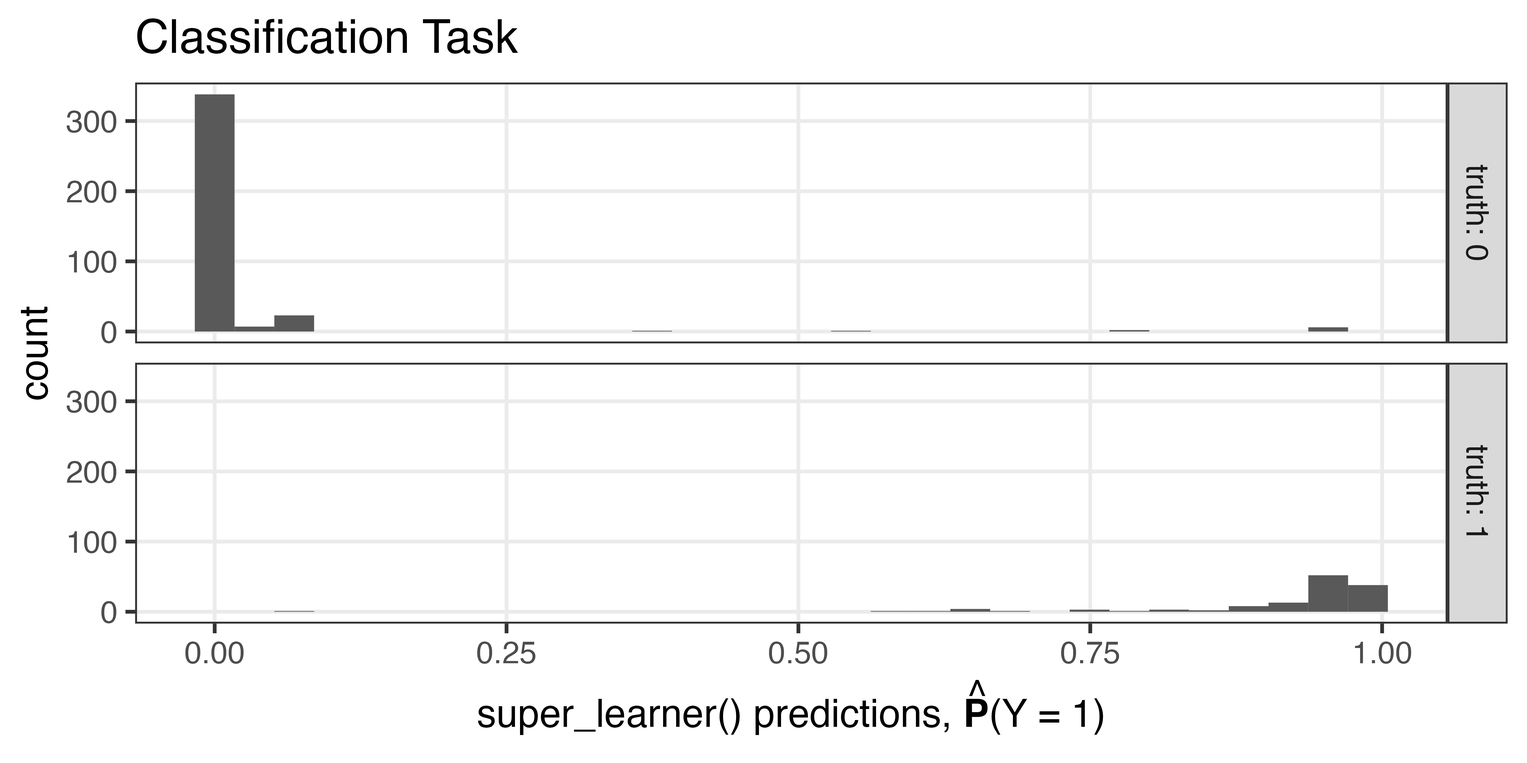
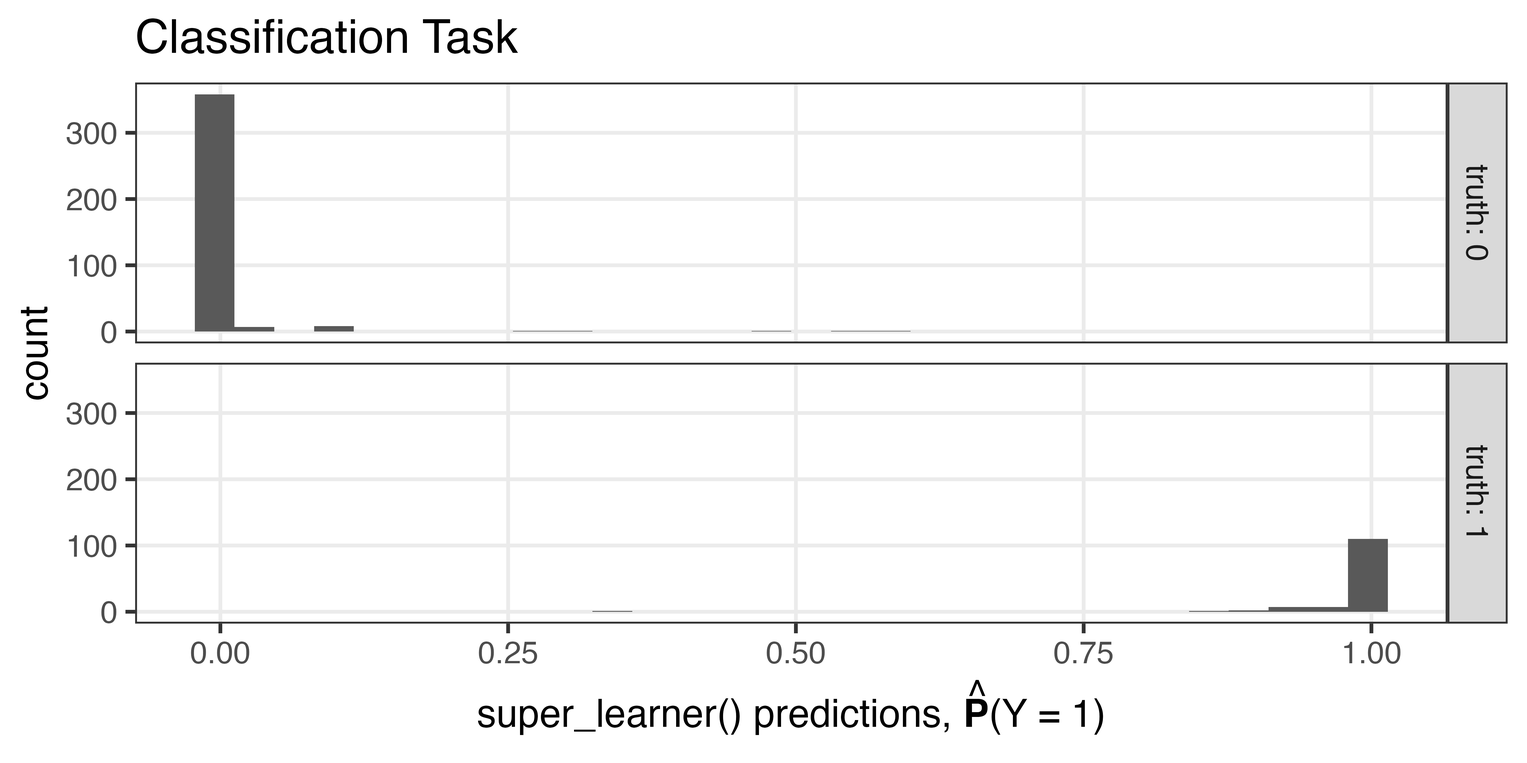
update multiclass prediction vignette to be more clear

diff --git a/docs/articles/Binary-and-Multiclass-Outcomes.html b/docs/articles/Binary-and-Multiclass-Outcomes.html
@@ -6,12 +6,11 @@
 <meta http-equiv="X-UA-Compatible" content="IE=edge">
 <meta name="viewport" content="width=device-width, initial-scale=1, shrink-to-fit=no">
 <title>Binary and Multiclass Outcomes • nadir</title>
-<!-- favicons --><link rel="icon" type="image/png" sizes="16x16" href="../favicon-16x16.png">
-<link rel="icon" type="image/png" sizes="32x32" href="../favicon-32x32.png">
-<link rel="apple-touch-icon" type="image/png" sizes="180x180" href="../apple-touch-icon.png">
-<link rel="apple-touch-icon" type="image/png" sizes="120x120" href="../apple-touch-icon-120x120.png">
-<link rel="apple-touch-icon" type="image/png" sizes="76x76" href="../apple-touch-icon-76x76.png">
-<link rel="apple-touch-icon" type="image/png" sizes="60x60" href="../apple-touch-icon-60x60.png">
+<!-- favicons --><link rel="icon" type="image/png" sizes="96x96" href="../favicon-96x96.png">
+<link rel="icon" type="”image/svg+xml”" href="../favicon.svg">
+<link rel="apple-touch-icon" sizes="180x180" href="../apple-touch-icon.png">
+<link rel="icon" sizes="any" href="../favicon.ico">
+<link rel="manifest" href="../site.webmanifest">
 <script src="../deps/jquery-3.6.0/jquery-3.6.0.min.js"></script><meta name="viewport" content="width=device-width, initial-scale=1, shrink-to-fit=no">
 <link href="../deps/bootstrap-5.3.1/bootstrap.min.css" rel="stylesheet">
 <script src="../deps/bootstrap-5.3.1/bootstrap.bundle.min.js"></script><link href="../deps/font-awesome-6.4.0/css/all.min.css" rel="stylesheet">
@@ -28,7 +27,7 @@
 
     <a class="navbar-brand me-2" href="../index.html">nadir</a>
 
-    <small class="nav-text text-muted me-auto" data-bs-toggle="tooltip" data-bs-placement="bottom" title="">0.0.001</small>
+    <small class="nav-text text-muted me-auto" data-bs-toggle="tooltip" data-bs-placement="bottom" title="">0.0.2</small>
 
 
     <button class="navbar-toggler" type="button" data-bs-toggle="collapse" data-bs-target="#navbar" aria-controls="navbar" aria-expanded="false" aria-label="Toggle navigation">
@@ -52,13 +51,16 @@
     <li><a class="dropdown-item" href="../articles/Doubly-Robust-Estimation.html">Doubly Robust Estimation</a></li>
     <li><a class="dropdown-item" href="../articles/Error-Handling.html">Error Handling</a></li>
     <li><a class="dropdown-item" href="../articles/FAQs.html">FAQs</a></li>
+    <li><a class="dropdown-item" href="../articles/Glmnets-and-Multipredictors.html">Glmnets and Multipredictors</a></li>
     <li><a class="dropdown-item" href="../articles/Guidance-for-Developers.html">Guidance for Developers</a></li>
     <li><a class="dropdown-item" href="../articles/Running-super_learner-in-Parallel.html">Running `super_learner()` in Parallel</a></li>
+    <li><a class="dropdown-item" href="../articles/Screeners.html">Screeners</a></li>
     <li><a class="dropdown-item" href="../articles/Survival.html">Survival Analysis via Pooled Logistic Regression</a></li>
     <li><a class="dropdown-item" href="../articles/Using-Weights.html">Using Observation Weights</a></li>
     <li><a class="dropdown-item" href="../articles/Visualizing-Performance.html">Visualizing Performance</a></li>
   </ul>
 </li>
+<li class="nav-item"><a class="nav-link" href="../news/index.html">Changelog</a></li>
       </ul>
 <ul class="navbar-nav">
 <li class="nav-item"><form class="form-inline" role="search">
@@ -88,9 +90,18 @@
     
 <div class="sourceCode" id="cb1"><pre class="downlit sourceCode r">
 <code class="sourceCode R"><span><span class="kw"><a href="https://rdrr.io/r/base/library.html" class="external-link">library</a></span><span class="op">(</span><span class="va"><a href="https://ctesta01.github.io/nadir/">nadir</a></span><span class="op">)</span></span>
-<span><span class="co">#&gt; Registered S3 method overwritten by 'future':</span></span>
-<span><span class="co">#&gt;   method               from      </span></span>
-<span><span class="co">#&gt;   all.equal.connection parallelly</span></span></code></pre></div>
+<span><span class="kw"><a href="https://rdrr.io/r/base/library.html" class="external-link">library</a></span><span class="op">(</span><span class="va"><a href="https://ggplot2.tidyverse.org" class="external-link">ggplot2</a></span><span class="op">)</span></span>
+<span><span class="co">#&gt; Warning: package 'ggplot2' was built under R version 4.5.2</span></span>
+<span><span class="kw"><a href="https://rdrr.io/r/base/library.html" class="external-link">library</a></span><span class="op">(</span><span class="va"><a href="https://dplyr.tidyverse.org" class="external-link">dplyr</a></span><span class="op">)</span></span>
+<span><span class="co">#&gt; </span></span>
+<span><span class="co">#&gt; Attaching package: 'dplyr'</span></span>
+<span><span class="co">#&gt; The following objects are masked from 'package:stats':</span></span>
+<span><span class="co">#&gt; </span></span>
+<span><span class="co">#&gt;     filter, lag</span></span>
+<span><span class="co">#&gt; The following objects are masked from 'package:base':</span></span>
+<span><span class="co">#&gt; </span></span>
+<span><span class="co">#&gt;     intersect, setdiff, setequal, union</span></span>
+<span><span class="kw"><a href="https://rdrr.io/r/base/library.html" class="external-link">library</a></span><span class="op">(</span><span class="va"><a href="https://tidyr.tidyverse.org" class="external-link">tidyr</a></span><span class="op">)</span></span></code></pre></div>
 <div class="section level2">
 <h2 id="binary-outcomes-">Binary Outcomes.<a class="anchor" aria-label="anchor" href="#binary-outcomes-"></a>
 </h2>
@@ -125,26 +136,27 @@ to <code><a href="../reference/super_learner.html">super_learner()</a></code> as
 <span>                             <span class="co"># for that learner</span></span>
 <span>    rf <span class="op">=</span> <span class="va">lnr_rf_binary</span>,  <span class="co"># random forest</span></span>
 <span>    lm <span class="op">=</span> <span class="va">lnr_lm</span><span class="op">)</span>, <span class="co"># linear probability model</span></span>
-<span>  outcome_type <span class="op">=</span> <span class="st">'binary'</span>,</span>
-<span>  verbose <span class="op">=</span> <span class="cn">TRUE</span></span>
+<span>  outcome_type <span class="op">=</span> <span class="st">'binary'</span></span>
 <span><span class="op">)</span></span>
 <span></span>
 <span><span class="co"># let's take a look at the learned weights</span></span>
 <span><span class="va">trained_binary_super_learner</span><span class="op">$</span><span class="va">learner_weights</span></span>
-<span><span class="co">#&gt;     logistic           rf           lm </span></span>
-<span><span class="co">#&gt; 1.000000e+00 2.691182e-16 4.748858e-20</span></span>
+<span><span class="co">#&gt;   logistic         rf         lm </span></span>
+<span><span class="co">#&gt; 0.05579758 0.92514573 0.01905669</span></span>
 <span></span>
 <span><span class="co"># what are the predictions? you can think of them as \hat{P}(Y = 1 | X).</span></span>
 <span><span class="co"># i.e., predictions of P(Y = 1) given X where Y and X are the left &amp; right hand</span></span>
 <span><span class="co"># side of your regression formula(s)</span></span>
-<span><span class="fu"><a href="https://rdrr.io/r/utils/head.html" class="external-link">head</a></span><span class="op">(</span><span class="va">trained_binary_super_learner</span><span class="op">$</span><span class="fu">sl_predict</span><span class="op">(</span><span class="va">data</span><span class="op">)</span><span class="op">)</span></span>
-<span><span class="co">#&gt;            1            2            3            4            5            6 </span></span>
-<span><span class="co">#&gt; 2.772297e-05 1.034418e-05 5.749397e-06 2.472188e-06 3.237557e-06 3.784687e-06</span></span>
+<span><span class="fu"><a href="https://rdrr.io/r/utils/head.html" class="external-link">head</a></span><span class="op">(</span><span class="va">trained_binary_super_learner</span><span class="op">$</span><span class="fu">predict</span><span class="op">(</span><span class="va">data</span><span class="op">)</span><span class="op">)</span></span>
+<span><span class="co">#&gt;             1             2             3             4             5 </span></span>
+<span><span class="co">#&gt; -0.0006585537 -0.0024558314 -0.0019335223 -0.0025505626 -0.0024837036 </span></span>
+<span><span class="co">#&gt;             6 </span></span>
+<span><span class="co">#&gt; -0.0029380075</span></span>
 <span></span>
 <span><span class="co"># classification table</span></span>
 <span><span class="fu"><a href="https://rdrr.io/r/base/data.frame.html" class="external-link">data.frame</a></span><span class="op">(</span></span>
 <span>  truth <span class="op">=</span> <span class="va">data</span><span class="op">$</span><span class="va">high_crim</span>, </span>
-<span>  prediction <span class="op">=</span> <span class="fu"><a href="https://rdrr.io/r/base/Round.html" class="external-link">round</a></span><span class="op">(</span><span class="va">trained_binary_super_learner</span><span class="op">$</span><span class="fu">sl_predict</span><span class="op">(</span><span class="va">data</span><span class="op">)</span><span class="op">)</span><span class="op">)</span> <span class="op">|&gt;</span> </span>
+<span>  prediction <span class="op">=</span> <span class="fu"><a href="https://rdrr.io/r/base/Round.html" class="external-link">round</a></span><span class="op">(</span><span class="va">trained_binary_super_learner</span><span class="op">$</span><span class="fu">predict</span><span class="op">(</span><span class="va">data</span><span class="op">)</span><span class="op">)</span><span class="op">)</span> <span class="op">|&gt;</span> </span>
 <span>  <span class="fu">dplyr</span><span class="fu">::</span><span class="fu"><a href="https://dplyr.tidyverse.org/reference/group_by.html" class="external-link">group_by</a></span><span class="op">(</span><span class="va">truth</span>, <span class="va">prediction</span><span class="op">)</span> <span class="op">|&gt;</span> </span>
 <span>  <span class="fu">dplyr</span><span class="fu">::</span><span class="fu"><a href="https://dplyr.tidyverse.org/reference/count.html" class="external-link">count</a></span><span class="op">(</span><span class="op">)</span> <span class="op">|&gt;</span> </span>
 <span>  <span class="fu">ggplot2</span><span class="fu">::</span><span class="fu"><a href="https://ggplot2.tidyverse.org/reference/ggplot.html" class="external-link">ggplot</a></span><span class="op">(</span>mapping <span class="op">=</span> <span class="fu">ggplot2</span><span class="fu">::</span><span class="fu"><a href="https://ggplot2.tidyverse.org/reference/aes.html" class="external-link">aes</a></span><span class="op">(</span>y <span class="op">=</span> <span class="va">truth</span>, x <span class="op">=</span> <span class="va">prediction</span>, fill <span class="op">=</span> <span class="va">n</span>, label <span class="op">=</span> <span class="va">n</span><span class="op">)</span><span class="op">)</span> <span class="op">+</span> </span>
@@ -157,11 +169,11 @@ to <code><a href="../reference/super_learner.html">super_learner()</a></code> as
 <span>  <span class="fu">ggplot2</span><span class="fu">::</span><span class="fu"><a href="https://ggplot2.tidyverse.org/reference/ggtheme.html" class="external-link">theme_minimal</a></span><span class="op">(</span><span class="op">)</span> <span class="op">+</span> </span>
 <span>  <span class="fu">ggplot2</span><span class="fu">::</span><span class="fu"><a href="https://ggplot2.tidyverse.org/reference/theme.html" class="external-link">theme</a></span><span class="op">(</span>legend.position <span class="op">=</span> <span class="st">'none'</span><span class="op">)</span> <span class="op">+</span> </span>
 <span>  <span class="fu">ggplot2</span><span class="fu">::</span><span class="fu"><a href="https://ggplot2.tidyverse.org/reference/labs.html" class="external-link">ggtitle</a></span><span class="op">(</span><span class="st">"Classification Table"</span><span class="op">)</span></span></code></pre></div>
-<p><img src="Binary-and-Multiclass-Outcomes_files/figure-html/unnamed-chunk-2-1.png" width="250px"></p>
+<p><img src="Binary-and-Multiclass-Outcomes_files/figure-html/unnamed-chunk-2-1.png" class="r-plt" width="250px"></p>
 <div class="sourceCode" id="cb3"><pre class="downlit sourceCode r">
 <code class="sourceCode R"><span><span class="fu"><a href="https://rdrr.io/r/base/data.frame.html" class="external-link">data.frame</a></span><span class="op">(</span></span>
 <span>  truth <span class="op">=</span> <span class="va">data</span><span class="op">$</span><span class="va">high_crim</span>, </span>
-<span>  predicted_pr_of_1 <span class="op">=</span> <span class="va">trained_binary_super_learner</span><span class="op">$</span><span class="fu">sl_predict</span><span class="op">(</span><span class="va">data</span><span class="op">)</span><span class="op">)</span> <span class="op">|&gt;</span> </span>
+<span>  predicted_pr_of_1 <span class="op">=</span> <span class="va">trained_binary_super_learner</span><span class="op">$</span><span class="fu">predict</span><span class="op">(</span><span class="va">data</span><span class="op">)</span><span class="op">)</span> <span class="op">|&gt;</span> </span>
 <span>  <span class="fu">ggplot2</span><span class="fu">::</span><span class="fu"><a href="https://ggplot2.tidyverse.org/reference/ggplot.html" class="external-link">ggplot</a></span><span class="op">(</span>mapping <span class="op">=</span> <span class="fu">ggplot2</span><span class="fu">::</span><span class="fu"><a href="https://ggplot2.tidyverse.org/reference/aes.html" class="external-link">aes</a></span><span class="op">(</span>x <span class="op">=</span> <span class="va">predicted_pr_of_1</span><span class="op">)</span><span class="op">)</span> <span class="op">+</span> </span>
 <span>  <span class="fu">ggplot2</span><span class="fu">::</span><span class="fu"><a href="https://ggplot2.tidyverse.org/reference/geom_histogram.html" class="external-link">geom_histogram</a></span><span class="op">(</span><span class="op">)</span> <span class="op">+</span> </span>
 <span>  <span class="fu">ggplot2</span><span class="fu">::</span><span class="fu"><a href="https://ggplot2.tidyverse.org/reference/facet_grid.html" class="external-link">facet_grid</a></span><span class="op">(</span><span class="va">truth</span> <span class="op">~</span> <span class="va">.</span>, labeller <span class="op">=</span> <span class="fu">ggplot2</span><span class="fu">::</span><span class="fu"><a href="https://ggplot2.tidyverse.org/reference/labeller.html" class="external-link">labeller</a></span><span class="op">(</span>truth <span class="op">=</span> <span class="op">~</span> <span class="fu"><a href="https://rdrr.io/r/base/paste.html" class="external-link">paste0</a></span><span class="op">(</span><span class="st">'truth: '</span>, <span class="va">.</span><span class="op">)</span><span class="op">)</span><span class="op">)</span> <span class="op">+</span> </span>
@@ -169,8 +181,8 @@ to <code><a href="../reference/super_learner.html">super_learner()</a></code> as
 <span>  <span class="fu">ggplot2</span><span class="fu">::</span><span class="fu"><a href="https://ggplot2.tidyverse.org/reference/theme.html" class="external-link">theme</a></span><span class="op">(</span>panel.grid.minor <span class="op">=</span> <span class="fu">ggplot2</span><span class="fu">::</span><span class="fu"><a href="https://ggplot2.tidyverse.org/reference/element.html" class="external-link">element_blank</a></span><span class="op">(</span><span class="op">)</span><span class="op">)</span> <span class="op">+</span> </span>
 <span>  <span class="fu">ggplot2</span><span class="fu">::</span><span class="fu"><a href="https://ggplot2.tidyverse.org/reference/labs.html" class="external-link">xlab</a></span><span class="op">(</span><span class="fu"><a href="https://rdrr.io/r/base/bquote.html" class="external-link">bquote</a></span><span class="op">(</span><span class="fu"><a href="https://rdrr.io/r/base/paste.html" class="external-link">paste</a></span><span class="op">(</span><span class="st">"super_learner() predictions, "</span>, <span class="fu"><a href="https://rdrr.io/r/stats/influence.measures.html" class="external-link">hat</a></span><span class="op">(</span><span class="fu">bold</span><span class="op">(</span><span class="va">P</span><span class="op">)</span><span class="op">)</span>, <span class="st">'(Y = 1)'</span><span class="op">)</span><span class="op">)</span><span class="op">)</span> <span class="op">+</span> </span>
 <span>  <span class="fu">ggplot2</span><span class="fu">::</span><span class="fu"><a href="https://ggplot2.tidyverse.org/reference/labs.html" class="external-link">ggtitle</a></span><span class="op">(</span><span class="st">"Classification Task"</span><span class="op">)</span> </span>
-<span><span class="co">#&gt; `stat_bin()` using `bins = 30`. Pick better value with `binwidth`.</span></span></code></pre></div>
-<p><img src="Binary-and-Multiclass-Outcomes_files/figure-html/unnamed-chunk-3-1.png" width="1800"></p>
+<span><span class="co">#&gt; `stat_bin()` using `bins = 30`. Pick better value `binwidth`.</span></span></code></pre></div>
+<p><img src="Binary-and-Multiclass-Outcomes_files/figure-html/unnamed-chunk-3-1.png" class="r-plt" width="1800"></p>
 <p>An important thing to know about constructing learners for the binary
 outcome context is that
 <code><a href="../reference/determine_weights_for_binary_outcomes.html">determine_weights_for_binary_outcomes()</a></code> requires that the
@@ -191,6 +203,11 @@ like that of classifying the penguins’ species in the
 <code>palmerpenguins</code> dataset.</p>
 <div class="sourceCode" id="cb4"><pre class="downlit sourceCode r">
 <code class="sourceCode R"><span><span class="kw"><a href="https://rdrr.io/r/base/library.html" class="external-link">library</a></span><span class="op">(</span><span class="va"><a href="https://allisonhorst.github.io/palmerpenguins/" class="external-link">palmerpenguins</a></span><span class="op">)</span></span>
+<span><span class="co">#&gt; </span></span>
+<span><span class="co">#&gt; Attaching package: 'palmerpenguins'</span></span>
+<span><span class="co">#&gt; The following objects are masked from 'package:datasets':</span></span>
+<span><span class="co">#&gt; </span></span>
+<span><span class="co">#&gt;     penguins, penguins_raw</span></span>
 <span></span>
 <span><span class="va">df</span> <span class="op">&lt;-</span> <span class="va">penguins</span><span class="op">[</span><span class="fu"><a href="https://rdrr.io/r/stats/complete.cases.html" class="external-link">complete.cases</a></span><span class="op">(</span><span class="va">penguins</span><span class="op">)</span>,<span class="op">]</span></span>
 <span></span>
@@ -207,18 +224,61 @@ like that of classifying the penguins’ species in the
 <span>    nnet3 <span class="op">=</span> <span class="va">lnr_multinomial_nnet</span>,</span>
 <span>    vglm <span class="op">=</span> <span class="va">lnr_multinomial_vglm</span></span>
 <span>    <span class="op">)</span>,</span>
-<span>  outcome_type <span class="op">=</span> <span class="st">'multiclass'</span>,</span>
-<span>  verbose <span class="op">=</span> <span class="cn">TRUE</span><span class="op">)</span></span>
+<span>  outcome_type <span class="op">=</span> <span class="st">'multiclass'</span><span class="op">)</span></span>
 <span></span>
 <span><span class="fu"><a href="../reference/compare_learners.html">compare_learners</a></span><span class="op">(</span><span class="va">sl_learned_model</span>, loss_metric <span class="op">=</span> <span class="va">negative_log_loss</span><span class="op">)</span></span>
 <span><span class="co">#&gt; <span style="color: #949494;"># A tibble: 1 × 4</span></span></span>
 <span><span class="co">#&gt;   nnet1 nnet2 nnet3  vglm</span></span>
 <span><span class="co">#&gt;   <span style="color: #949494; font-style: italic;">&lt;dbl&gt;</span> <span style="color: #949494; font-style: italic;">&lt;dbl&gt;</span> <span style="color: #949494; font-style: italic;">&lt;dbl&gt;</span> <span style="color: #949494; font-style: italic;">&lt;dbl&gt;</span></span></span>
-<span><span class="co">#&gt; <span style="color: #BCBCBC;">1</span>  120.  119.  156.  120.</span></span>
+<span><span class="co">#&gt; <span style="color: #BCBCBC;">1</span>  121.  118.  108.  119.</span></span>
 <span></span>
 <span><span class="fu"><a href="https://rdrr.io/r/base/Round.html" class="external-link">round</a></span><span class="op">(</span><span class="va">sl_learned_model</span><span class="op">$</span><span class="va">learner_weights</span>, <span class="fl">3</span><span class="op">)</span></span>
 <span><span class="co">#&gt; nnet1 nnet2 nnet3  vglm </span></span>
-<span><span class="co">#&gt; 0.000 0.000 0.956 0.044</span></span></code></pre></div>
+<span><span class="co">#&gt; 0.000 0.000 0.957 0.043</span></span></code></pre></div>
+<p>Let’s make a nice plot showing predicted probabilities from the super
+learner ensemble model.</p>
+<div class="sourceCode" id="cb5"><pre class="downlit sourceCode r">
+<code class="sourceCode R"><span><span class="va">prob_adelie</span> <span class="op">&lt;-</span> <span class="fu"><a href="https://rdrr.io/r/stats/predict.html" class="external-link">predict</a></span><span class="op">(</span><span class="va">sl_learned_model</span>, <span class="op">{</span> <span class="va">d</span> <span class="op">&lt;-</span> <span class="va">df</span>; <span class="va">d</span><span class="op">$</span><span class="va">species</span> <span class="op">&lt;-</span> <span class="st">'Adelie'</span>; <span class="va">d</span><span class="op">}</span> <span class="op">)</span></span>
+<span><span class="va">prob_chinstrap</span> <span class="op">&lt;-</span> <span class="fu"><a href="https://rdrr.io/r/stats/predict.html" class="external-link">predict</a></span><span class="op">(</span><span class="va">sl_learned_model</span>, <span class="op">{</span> <span class="va">d</span> <span class="op">&lt;-</span> <span class="va">df</span>; <span class="va">d</span><span class="op">$</span><span class="va">species</span> <span class="op">&lt;-</span> <span class="st">'Chinstrap'</span>; <span class="va">d</span><span class="op">}</span> <span class="op">)</span></span>
+<span><span class="va">prob_gentoo</span> <span class="op">&lt;-</span> <span class="fu"><a href="https://rdrr.io/r/stats/predict.html" class="external-link">predict</a></span><span class="op">(</span><span class="va">sl_learned_model</span>, <span class="op">{</span> <span class="va">d</span> <span class="op">&lt;-</span> <span class="va">df</span>; <span class="va">d</span><span class="op">$</span><span class="va">species</span> <span class="op">&lt;-</span> <span class="st">'Gentoo'</span>; <span class="va">d</span><span class="op">}</span> <span class="op">)</span></span>
+<span></span>
+<span><span class="va">dfprob</span> <span class="op">&lt;-</span> <span class="fu"><a href="https://rdrr.io/r/base/data.frame.html" class="external-link">data.frame</a></span><span class="op">(</span></span>
+<span>  i <span class="op">=</span> <span class="fl">1</span><span class="op">:</span><span class="fu"><a href="https://rdrr.io/r/base/nrow.html" class="external-link">nrow</a></span><span class="op">(</span><span class="va">df</span><span class="op">)</span>,</span>
+<span>  adelie <span class="op">=</span> <span class="va">prob_adelie</span>,</span>
+<span>  chinstrap <span class="op">=</span> <span class="va">prob_chinstrap</span>,</span>
+<span>  gentoo <span class="op">=</span> <span class="va">prob_gentoo</span><span class="op">)</span></span>
+<span></span>
+<span><span class="va">dfprob</span> <span class="op">&lt;-</span> <span class="va">dfprob</span> <span class="op">|&gt;</span> <span class="fu">tidyr</span><span class="fu">::</span><span class="fu"><a href="https://tidyr.tidyverse.org/reference/pivot_longer.html" class="external-link">pivot_longer</a></span><span class="op">(</span></span>
+<span>  cols <span class="op">=</span> <span class="fu"><a href="https://rdrr.io/r/base/c.html" class="external-link">c</a></span><span class="op">(</span><span class="st">'adelie'</span>, <span class="st">'chinstrap'</span>, <span class="st">'gentoo'</span><span class="op">)</span>,</span>
+<span>  names_to <span class="op">=</span> <span class="st">'species'</span>,</span>
+<span>  values_to <span class="op">=</span> <span class="st">'prob'</span></span>
+<span>  <span class="op">)</span></span>
+<span></span>
+<span><span class="va">df</span><span class="op">$</span><span class="va">i</span> <span class="op">&lt;-</span> <span class="fl">1</span><span class="op">:</span><span class="fu"><a href="https://rdrr.io/r/base/nrow.html" class="external-link">nrow</a></span><span class="op">(</span><span class="va">df</span><span class="op">)</span></span>
+<span><span class="va">df</span><span class="op">$</span><span class="va">species</span> <span class="op">&lt;-</span> <span class="fu"><a href="https://rdrr.io/r/base/chartr.html" class="external-link">tolower</a></span><span class="op">(</span><span class="fu"><a href="https://rdrr.io/r/base/character.html" class="external-link">as.character</a></span><span class="op">(</span><span class="va">df</span><span class="op">$</span><span class="va">species</span><span class="op">)</span><span class="op">)</span></span>
+<span></span>
+<span><span class="fu"><a href="https://ggplot2.tidyverse.org/reference/ggplot.html" class="external-link">ggplot</a></span><span class="op">(</span><span class="va">dfprob</span>, <span class="fu"><a href="https://ggplot2.tidyverse.org/reference/aes.html" class="external-link">aes</a></span><span class="op">(</span>x <span class="op">=</span> <span class="va">i</span>, y <span class="op">=</span> <span class="va">prob</span>, fill <span class="op">=</span> <span class="va">species</span><span class="op">)</span><span class="op">)</span> <span class="op">+</span> </span>
+<span>  <span class="fu"><a href="https://ggplot2.tidyverse.org/reference/geom_bar.html" class="external-link">geom_col</a></span><span class="op">(</span><span class="op">)</span> <span class="op">+</span> </span>
+<span>  <span class="fu"><a href="https://ggplot2.tidyverse.org/reference/facet_grid.html" class="external-link">facet_grid</a></span><span class="op">(</span><span class="va">species</span><span class="op">~</span><span class="va">.</span><span class="op">)</span> <span class="op">+</span> </span>
+<span>  <span class="fu"><a href="https://ggplot2.tidyverse.org/reference/geom_point.html" class="external-link">geom_point</a></span><span class="op">(</span></span>
+<span>    data <span class="op">=</span> <span class="va">df</span>,</span>
+<span>    mapping <span class="op">=</span> <span class="fu"><a href="https://ggplot2.tidyverse.org/reference/aes.html" class="external-link">aes</a></span><span class="op">(</span>x <span class="op">=</span> <span class="va">i</span>, y <span class="op">=</span> <span class="fl">1.025</span>, fill <span class="op">=</span> <span class="va">species</span><span class="op">)</span>,</span>
+<span>    color <span class="op">=</span> <span class="st">'black'</span>,</span>
+<span>    size <span class="op">=</span> <span class="fl">.25</span>,</span>
+<span>    shape <span class="op">=</span> <span class="fl">20</span>, </span>
+<span>    alpha <span class="op">=</span> <span class="fl">0.8</span><span class="op">)</span> <span class="op">+</span> </span>
+<span>  <span class="fu"><a href="https://ggplot2.tidyverse.org/reference/ggtheme.html" class="external-link">theme_bw</a></span><span class="op">(</span><span class="op">)</span> <span class="op">+</span> </span>
+<span>  <span class="fu"><a href="https://ggplot2.tidyverse.org/reference/lims.html" class="external-link">ylim</a></span><span class="op">(</span><span class="fu"><a href="https://rdrr.io/r/base/c.html" class="external-link">c</a></span><span class="op">(</span><span class="fl">0</span>, <span class="fl">1.05</span><span class="op">)</span><span class="op">)</span> <span class="op">+</span> </span>
+<span>  <span class="fu"><a href="https://ggplot2.tidyverse.org/reference/theme.html" class="external-link">theme</a></span><span class="op">(</span></span>
+<span>    panel.grid <span class="op">=</span> <span class="fu"><a href="https://ggplot2.tidyverse.org/reference/element.html" class="external-link">element_blank</a></span><span class="op">(</span><span class="op">)</span>,</span>
+<span>    plot.caption.position <span class="op">=</span> <span class="st">'plot'</span><span class="op">)</span> <span class="op">+</span> </span>
+<span>  <span class="fu"><a href="https://ggplot2.tidyverse.org/reference/labs.html" class="external-link">ggtitle</a></span><span class="op">(</span><span class="st">"super_learner() Estimated Probability of Each Class by Row ID"</span>,</span>
+<span>          <span class="st">"Model ensemble consists of 3 Neural Networks and a Vector-GLM"</span><span class="op">)</span> <span class="op">+</span> </span>
+<span>  <span class="fu"><a href="https://ggplot2.tidyverse.org/reference/labs.html" class="external-link">xlab</a></span><span class="op">(</span><span class="st">"Row ID"</span><span class="op">)</span> <span class="op">+</span> </span>
+<span>  <span class="fu"><a href="https://ggplot2.tidyverse.org/reference/labs.html" class="external-link">ylab</a></span><span class="op">(</span><span class="st">"Estimated Species Membership Probability"</span><span class="op">)</span> <span class="op">+</span> </span>
+<span>  <span class="fu"><a href="https://ggplot2.tidyverse.org/reference/labs.html" class="external-link">labs</a></span><span class="op">(</span></span>
+<span>    caption <span class="op">=</span> <span class="st">"Actual species recorded for each row id are indicated in small black dots."</span><span class="op">)</span></span></code></pre></div>
+<p><img src="Binary-and-Multiclass-Outcomes_files/figure-html/unnamed-chunk-5-1.png" class="r-plt" width="2400"></p>
 </div>
   </main><aside class="col-md-3"><nav id="toc" aria-label="Table of contents"><h2>On this page</h2>
     </nav></aside>
@@ -231,7 +291,7 @@ like that of classifying the penguins’ species in the
 </div>
 
 <div class="pkgdown-footer-right">
-  <p>Site built with <a href="https://pkgdown.r-lib.org/" class="external-link">pkgdown</a> 2.1.1.</p>
+  <p>Site built with <a href="https://pkgdown.r-lib.org/" class="external-link">pkgdown</a> 2.2.1.</p>
 </div>
 
     </footer>
